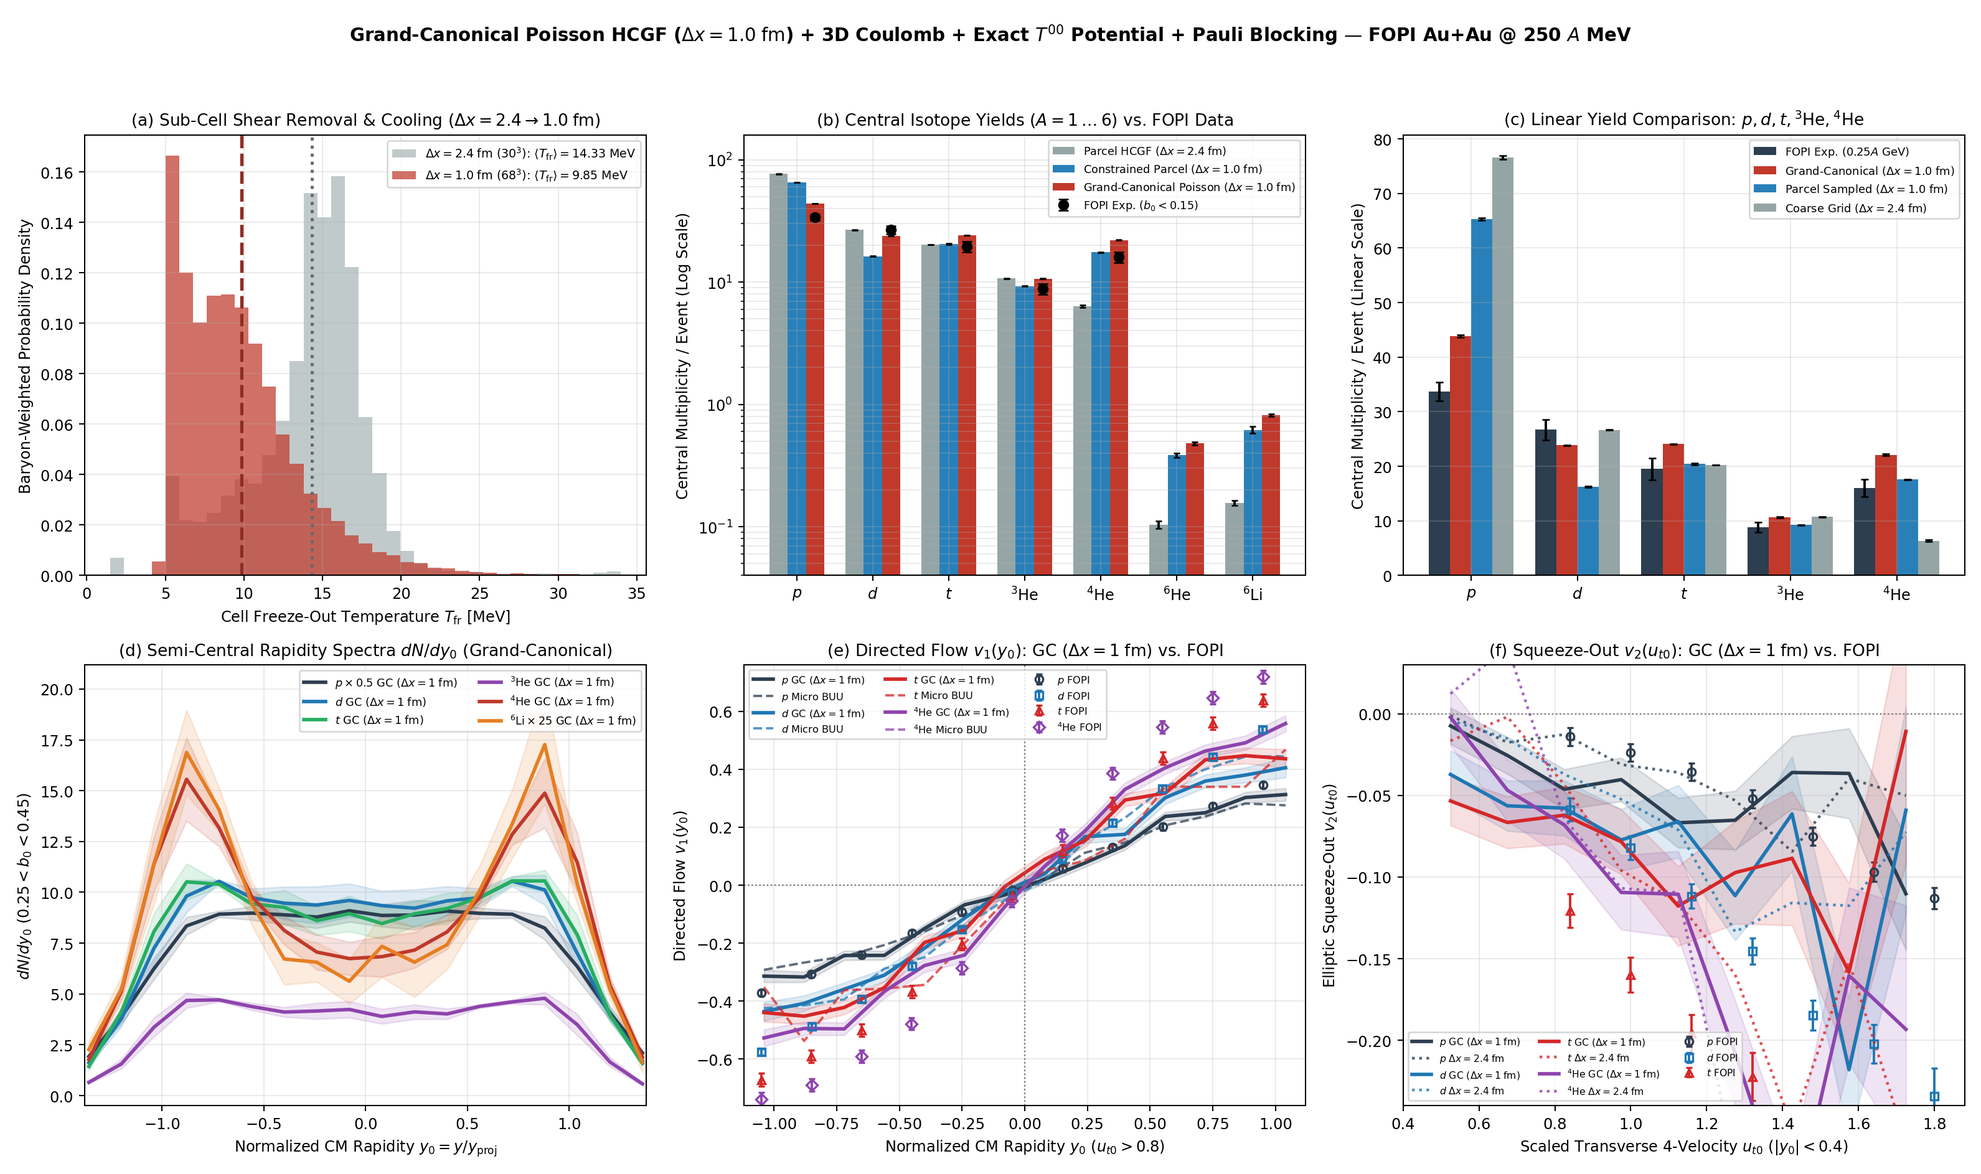
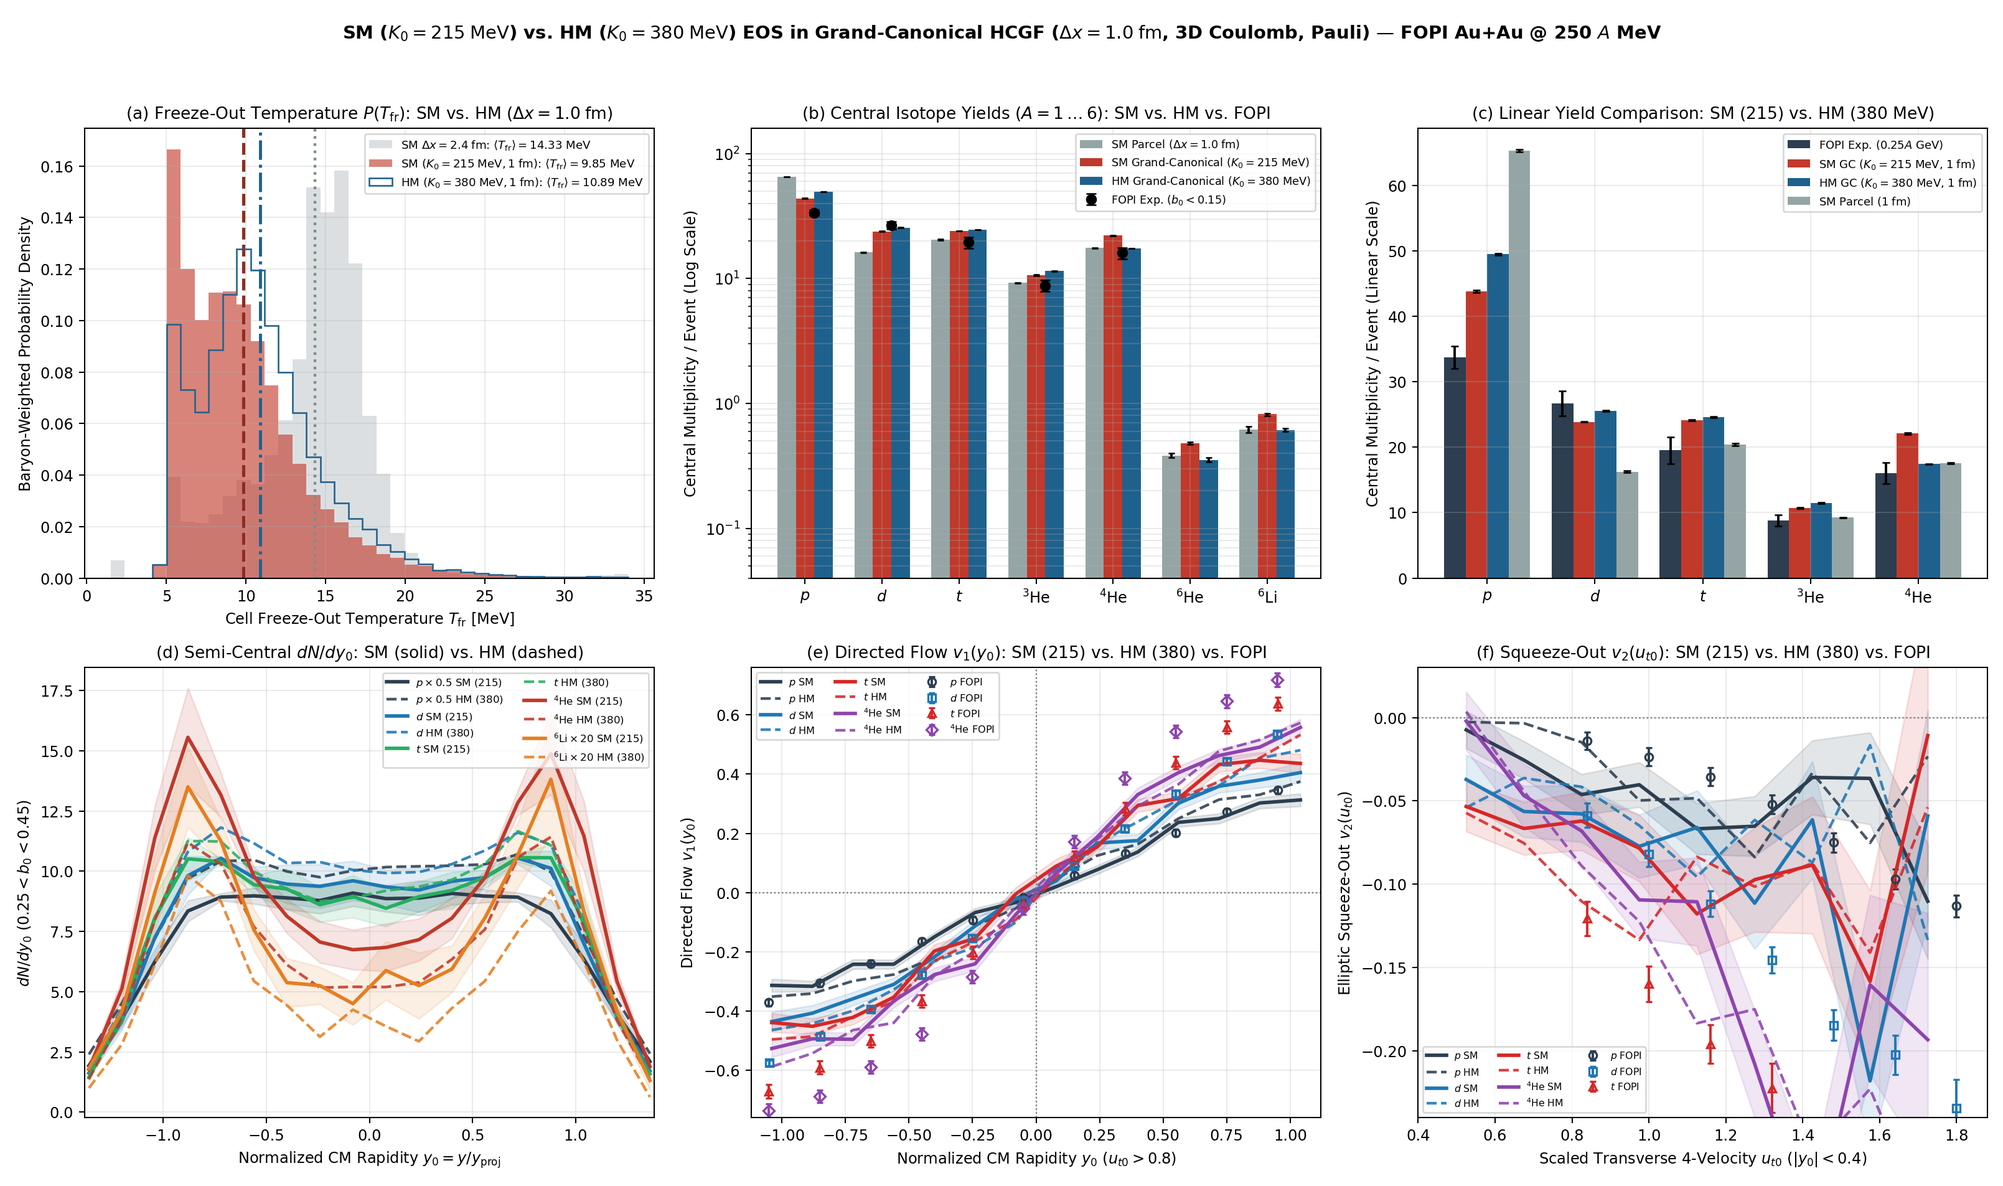
feat(eos): compare SM (K0=215 MeV) vs HM (K0=380 MeV) in dx=1.0 fm Grand-Canonical HCGF benchmark

diff --git a/scripts/run_gc_dx1fm_benchmark.py b/scripts/run_gc_dx1fm_benchmark.py
@@ -35,7 +35,7 @@ RHO0 = 0.160
 
 
 def run_job(job):
-    tag, b_fm, ntest, sampling_mode, save_cells, seed = job
+    tag, b_fm, ntest, eos_flag, sampling_mode, save_cells, seed = job
     fl_csv = RUNS_DIR / f"{tag}.csv"
     cells_csv = RUNS_DIR / f"{tag}.cells.csv"
     if (Path(str(fl_csv) + ".yields.csv")).exists() and (not save_cells or cells_csv.exists()):
@@ -46,7 +46,7 @@ def run_job(job):
         "--elab-amev", "250.0", "--impact-b", f"{b_fm:.4f}",
         "--ntest", str(ntest), "--box", "68.0", "--grid", "68",
         "--steps", "280", "--dt", "0.30", "--substeps", "2",
-        "--eos", "md-soft", "--in-medium-ec", "on", "--pauli", "on", "--coulomb", "on",
+        "--eos", eos_flag, "--in-medium-ec", "on", "--pauli", "on", "--coulomb", "on",
         "--cluster-mode", "freezeout", "--backflow", "remelt",
         "--sampling", sampling_mode, "--anisotropy", "on",
         "--max-cluster-A", "6", "--nfr", f"{RHO0 / 8.0:.5f}", "--freezeout-every", "2",
@@ -160,19 +160,19 @@ def load_T_hist(paths):
 def run_ensembles():
     RUNS_DIR.mkdir(parents=True, exist_ok=True)
     jobs = []
-    # Central (b0 < 0.15): 4 b*db points x N_test=500 = 2,000 events at dx = 1.00 fm (Grand-Canonical)
     b1_hi = 0.15 * B_MAX_AUAU
-    for k in range(4):
-        b_fm = math.sqrt(((k + 0.5) / 4.0) * (b1_hi * b1_hi))
-        jobs.append((f"c1_gc_dx1_{k:02d}", b_fm, 500, "gc", k < 2, 981000 + k * 151))
-
-    # Semi-central (0.25 < b0 < 0.45): 4 b*db points x N_test=500 = 2,000 events at dx = 1.00 fm (Grand-Canonical)
     b2_lo, b2_hi = 0.25 * B_MAX_AUAU, 0.45 * B_MAX_AUAU
-    for k in range(4):
-        b_fm = math.sqrt(b2_lo * b2_lo + ((k + 0.5) / 4.0) * (b2_hi * b2_hi - b2_lo * b2_lo))
-        jobs.append((f"c2_gc_dx1_{k:02d}", b_fm, 500, "gc", k < 2, 982000 + k * 151))
 
-    print(f"Running {len(jobs)} dx = 1.00 fm (68^3) Grand-Canonical jobs across 4 workers...", flush=True)
+    # SM (MD-Soft, K0=215 MeV, cached!) + HM (MD-Stiff, K0=380 MeV, paired seeds!) on dx = 1.00 fm (68^3)
+    for k in range(4):
+        b1 = math.sqrt(((k + 0.5) / 4.0) * (b1_hi * b1_hi))
+        b2 = math.sqrt(b2_lo * b2_lo + ((k + 0.5) / 4.0) * (b2_hi * b2_hi - b2_lo * b2_lo))
+        jobs.append((f"c1_gc_dx1_{k:02d}",    b1, 500, "md-soft",  "gc", k < 2, 981000 + k * 151))
+        jobs.append((f"c2_gc_dx1_{k:02d}",    b2, 500, "md-soft",  "gc", k < 2, 982000 + k * 151))
+        jobs.append((f"c1_gc_hm_dx1_{k:02d}", b1, 500, "md-stiff", "gc", k < 2, 981000 + k * 151))
+        jobs.append((f"c2_gc_hm_dx1_{k:02d}", b2, 500, "md-stiff", "gc", k < 2, 982000 + k * 151))
+
+    print(f"Running {len(jobs)} dx = 1.00 fm (68^3) SM vs HM Grand-Canonical jobs across 4 workers...", flush=True)
     t0 = time.time()
     out = {}
     done = 0
@@ -182,14 +182,18 @@ def run_ensembles():
             tag, dt_s, info, p = fut.result()
             out[tag] = p
             done += 1
-            print(f"  [{done:2d}/{len(jobs)}] {tag:14s} ({dt_s:5.1f}s) | {info}", flush=True)
+            if dt_s > 0.0:
+                print(f"  [{done:2d}/{len(jobs)}] {tag:17s} ({dt_s:5.1f}s) | {info}", flush=True)
 
-    c1_gc = OUT_DIR / "c1_gc_dx1.csv"
-    c2_gc = OUT_DIR / "c2_gc_dx1.csv"
-    merge_ensemble([out[f"c1_gc_dx1_{k:02d}"] for k in range(4)], c1_gc)
-    merge_ensemble([out[f"c2_gc_dx1_{k:02d}"] for k in range(4)], c2_gc)
+    c1_sm = OUT_DIR / "c1_gc_dx1.csv"
+    c2_sm = OUT_DIR / "c2_gc_dx1.csv"
+    c1_hm = OUT_DIR / "c1_gc_hm_dx1.csv"
+    c2_hm = OUT_DIR / "c2_gc_hm_dx1.csv"
+    merge_ensemble([out[f"c1_gc_dx1_{k:02d}"]    for k in range(4)], c1_sm)
+    merge_ensemble([out[f"c2_gc_dx1_{k:02d}"]    for k in range(4)], c2_sm)
+    merge_ensemble([out[f"c1_gc_hm_dx1_{k:02d}"] for k in range(4)], c1_hm)
+    merge_ensemble([out[f"c2_gc_hm_dx1_{k:02d}"] for k in range(4)], c2_hm)
 
-    # Merge existing cached dx=1.0 fm Parcel & dx=2.4 fm Coulomb central ensembles
     c1_par = OUT_DIR / "c1_parcel_dx1.csv"
     merge_ensemble(sorted(Path(p) for p in glob.glob(str(ROOT / "output/highstat_dx1fm_v2/c1_dx1_0*.csv"))
                           if not p.endswith(".ut0.csv") and not p.endswith(".yields.csv") and not p.endswith(".cells.csv")), c1_par)
@@ -197,71 +201,74 @@ def run_ensembles():
     merge_ensemble(sorted(Path(p) for p in glob.glob(str(ROOT / "output/highstat_coulomb_c1/c1_coul_0*.csv"))
                           if not p.endswith(".ut0.csv") and not p.endswith(".yields.csv") and not p.endswith(".cells.csv")), c1_dx24)
 
-    print(f"Completed & merged all ensembles in {time.time() - t0:.1f}s!", flush=True)
+    print(f"Completed & merged SM + HM ensembles in {time.time() - t0:.1f}s!", flush=True)
     return {
-        "c1_gc": c1_gc,
-        "c2_gc": c2_gc,
-        "c1_parcel": c1_par,
-        "c1_dx24": c1_dx24,
-        "c2_dx24": ROOT / "output" / "highstat_pauli_hcgf" / "c2_p_pt.csv",
-        "c2_mic": ROOT / "output" / "highstat_pauli_hcgf" / "c2_p_mic.csv",
+        "c1_sm": c1_sm, "c2_sm": c2_sm,
+        "c1_hm": c1_hm, "c2_hm": c2_hm,
+        "c1_parcel": c1_par, "c1_dx24": c1_dx24,
     }
 
 
 def plot_benchmark(merged, fopi):
     plt.rcParams.update({
         "font.size": 9.4, "axes.titlesize": 10.3, "axes.labelsize": 9.4,
-        "legend.fontsize": 7.3, "figure.facecolor": "white"
+        "legend.fontsize": 7.2, "figure.facecolor": "white"
     })
-    fig, axes = plt.subplots(2, 3, figsize=(17.2, 10.2), dpi=185)
+    fig, axes = plt.subplots(2, 3, figsize=(17.4, 10.3), dpi=185)
     fig.suptitle(
-        "Grand-Canonical Poisson HCGF ($\\Delta x = 1.0\\;\\mathrm{fm}$) + 3D Coulomb + Exact $T^{00}$ Potential + Pauli Blocking — FOPI Au+Au @ 250 $A$ MeV",
-        fontsize=11.4, fontweight="bold", y=0.98
+        "SM ($K_0 = 215\\;\\mathrm{MeV}$) vs. HM ($K_0 = 380\\;\\mathrm{MeV}$) EOS in Grand-Canonical HCGF ($\\Delta x = 1.0\\;\\mathrm{fm}$, 3D Coulomb, Pauli) — FOPI Au+Au @ 250 $A$ MeV",
+        fontsize=11.3, fontweight="bold", y=0.98
     )
 
-    # (a) Freeze-out cell temperature distribution: dx = 2.4 fm vs dx = 1.0 fm
+    # (a) Freeze-out cell temperature distribution: SM (dx=1 fm) vs HM (dx=1 fm) vs Coarse (dx=2.4 fm)
     ax = axes[0, 0]
     T_24, w_24 = load_T_hist([ROOT / "output/highstat_coulomb_c1/c1_coul_00.cells.csv"])
-    T_10, w_10 = load_T_hist([RUNS_DIR / f"c1_gc_dx1_{k:02d}.cells.csv" for k in range(2)])
+    T_sm, w_sm = load_T_hist([RUNS_DIR / f"c1_gc_dx1_{k:02d}.cells.csv" for k in range(2)])
+    T_hm, w_hm = load_T_hist([RUNS_DIR / f"c1_gc_hm_dx1_{k:02d}.cells.csv" for k in range(2)])
     bins = np.linspace(1.5, 34.0, 38)
     if len(T_24) > 0:
         m24 = np.average(T_24, weights=w_24)
-        ax.hist(T_24, bins=bins, weights=w_24, density=True, color="#95a5a6", alpha=0.58,
-                label=f"$\\Delta x = 2.4\\;\\mathrm{{fm}}$ ($30^3$): $\\langle T_{{\\mathrm{{fr}}}}\\rangle = {m24:.2f}$ MeV")
-        ax.axvline(m24, color="#616a6b", ls=":", lw=1.9)
-    if len(T_10) > 0:
-        m10 = np.average(T_10, weights=w_10)
-        ax.hist(T_10, bins=bins, weights=w_10, density=True, color="#c0392b", alpha=0.72,
-                label=f"$\\Delta x = 1.0\\;\\mathrm{{fm}}$ ($68^3$): $\\langle T_{{\\mathrm{{fr}}}}\\rangle = {m10:.2f}$ MeV")
-        ax.axvline(m10, color="#922b21", ls="--", lw=2.1)
+        ax.hist(T_24, bins=bins, weights=w_24, density=True, color="#bdc3c7", alpha=0.52,
+                label=f"SM $\\Delta x=2.4\\;\\mathrm{{fm}}$: $\\langle T_{{\\mathrm{{fr}}}}\\rangle = {m24:.2f}$ MeV")
+        ax.axvline(m24, color="#7f8c8d", ls=":", lw=1.7)
+    if len(T_sm) > 0:
+        msm = np.average(T_sm, weights=w_sm)
+        ax.hist(T_sm, bins=bins, weights=w_sm, density=True, color="#c0392b", alpha=0.62,
+                label=f"SM ($K_0=215\\;\\mathrm{{MeV}}, 1\\;\\mathrm{{fm}}$): $\\langle T_{{\\mathrm{{fr}}}}\\rangle = {msm:.2f}$ MeV")
+        ax.axvline(msm, color="#922b21", ls="--", lw=2.0)
+    if len(T_hm) > 0:
+        mhm = np.average(T_hm, weights=w_hm)
+        ax.hist(T_hm, bins=bins, weights=w_hm, density=True, histtype="step", color="#1f618d", lw=2.2,
+                label=f"HM ($K_0=380\\;\\mathrm{{MeV}}, 1\\;\\mathrm{{fm}}$): $\\langle T_{{\\mathrm{{fr}}}}\\rangle = {mhm:.2f}$ MeV")
+        ax.axvline(mhm, color="#1f618d", ls="-.", lw=1.9)
     ax.set_xlabel("Cell Freeze-Out Temperature $T_{\\mathrm{fr}}$ [MeV]")
     ax.set_ylabel("Baryon-Weighted Probability Density")
-    ax.set_title("(a) Sub-Cell Shear Removal & Cooling ($\\Delta x = 2.4 \\to 1.0\\;\\mathrm{fm}$)")
-    ax.grid(alpha=0.25); ax.legend(loc="upper right", fontsize=7.4)
+    ax.set_title("(a) Freeze-Out Temperature $P(T_{\\mathrm{fr}})$: SM vs. HM ($\\Delta x = 1.0\\;\\mathrm{fm}$)")
+    ax.grid(alpha=0.25); ax.legend(loc="upper right", fontsize=7.1)
 
-    # (b) Central (b0 < 0.15) log-scale multiplicities across A = 1..6
+    # (b) Central (b0 < 0.15) log-scale multiplicities across A = 1..6: SM vs HM vs Parcel vs FOPI
     ax = axes[0, 1]
     sps = ["p", "d", "t", "3He", "4He", "6He", "6Li"]
     lbls = ["$p$", "$d$", "$t$", "$^3\\mathrm{He}$", "$^4\\mathrm{He}$", "$^6\\mathrm{He}$", "$^6\\mathrm{Li}$"]
     xp = np.arange(len(sps)); w = 0.24
-    y_24 = load_yields(merged["c1_dx24"])
     y_pa = load_yields(merged["c1_parcel"])
-    y_gc = load_yields(merged["c1_gc"])
-    ax.bar(xp - w, [y_24[s][0] for s in sps], yerr=[y_24[s][1] for s in sps], width=w,
-           color="#95a5a6", capsize=2, label="Parcel HCGF ($\\Delta x = 2.4\\;\\mathrm{fm}$)")
-    ax.bar(xp,     [y_pa[s][0] for s in sps], yerr=[y_pa[s][1] for s in sps], width=w,
-           color="#2980b9", capsize=2, label="Constrained Parcel ($\\Delta x = 1.0\\;\\mathrm{fm}$)")
-    ax.bar(xp + w, [y_gc[s][0] for s in sps], yerr=[y_gc[s][1] for s in sps], width=w,
-           color="#c0392b", capsize=2, label="Grand-Canonical Poisson ($\\Delta x = 1.0\\;\\mathrm{fm}$)")
+    y_sm = load_yields(merged["c1_sm"])
+    y_hm = load_yields(merged["c1_hm"])
+    ax.bar(xp - w, [y_pa[s][0] for s in sps], yerr=[y_pa[s][1] for s in sps], width=w,
+           color="#95a5a6", capsize=2, label="SM Parcel ($\\Delta x = 1.0\\;\\mathrm{fm}$)")
+    ax.bar(xp,     [y_sm[s][0] for s in sps], yerr=[y_sm[s][1] for s in sps], width=w,
+           color="#c0392b", capsize=2, label="SM Grand-Canonical ($K_0 = 215$ MeV)")
+    ax.bar(xp + w, [y_hm[s][0] for s in sps], yerr=[y_hm[s][1] for s in sps], width=w,
+           color="#1f618d", capsize=2, label="HM Grand-Canonical ($K_0 = 380$ MeV)")
     f_sps = ["p", "d", "t", "3He", "4He"]
-    ax.errorbar(np.arange(5) + w, [fopi["central_yields_b0_lt_015"][s]["val"] for s in f_sps],
+    ax.errorbar(np.arange(5) + 0.5 * w, [fopi["central_yields_b0_lt_015"][s]["val"] for s in f_sps],
                 yerr=[fopi["central_yields_b0_lt_015"][s]["err"] for s in f_sps],
                 fmt="ko", ms=5.8, capsize=3, lw=1.6, zorder=8, label="FOPI Exp. ($b_0 < 0.15$)")
     ax.set_yscale("log"); ax.set_ylim(4e-2, 160.0)
     ax.set_xticks(xp); ax.set_xticklabels(lbls)
     ax.set_ylabel("Central Multiplicity / Event (Log Scale)")
     ax.grid(alpha=0.25, which="both"); ax.legend(loc="upper right", fontsize=6.9)
-    ax.set_title("(b) Central Isotope Yields ($A = 1 \\dots 6$) vs. FOPI Data")
+    ax.set_title("(b) Central Isotope Yields ($A = 1 \\dots 6$): SM vs. HM vs. FOPI")
 
     # (c) Linear-scale comparison on FOPI light charged species (p, d, t, 3He, 4He)
     ax = axes[0, 2]
@@ -269,45 +276,46 @@ def plot_benchmark(merged, fopi):
     f_vals = [fopi["central_yields_b0_lt_015"][s]["val"] for s in f_sps]
     f_errs = [fopi["central_yields_b0_lt_015"][s]["err"] for s in f_sps]
     ax.bar(xp5 - 1.5 * w5, f_vals, yerr=f_errs, width=w5, color="#2c3e50", capsize=2.5, label="FOPI Exp. ($0.25A$ GeV)")
-    ax.bar(xp5 - 0.5 * w5, [y_gc[s][0] for s in f_sps], yerr=[y_gc[s][1] for s in f_sps], width=w5,
-           color="#c0392b", capsize=2.5, label="Grand-Canonical ($\\Delta x = 1.0\\;\\mathrm{fm}$)")
-    ax.bar(xp5 + 0.5 * w5, [y_pa[s][0] for s in f_sps], yerr=[y_pa[s][1] for s in f_sps], width=w5,
-           color="#2980b9", capsize=2.5, label="Parcel Sampled ($\\Delta x = 1.0\\;\\mathrm{fm}$)")
-    ax.bar(xp5 + 1.5 * w5, [y_24[s][0] for s in f_sps], yerr=[y_24[s][1] for s in f_sps], width=w5,
-           color="#95a5a6", capsize=2.5, label="Coarse Grid ($\\Delta x = 2.4\\;\\mathrm{fm}$)")
+    ax.bar(xp5 - 0.5 * w5, [y_sm[s][0] for s in f_sps], yerr=[y_sm[s][1] for s in f_sps], width=w5,
+           color="#c0392b", capsize=2.5, label="SM GC ($K_0 = 215$ MeV, $1\\;\\mathrm{fm}$)")
+    ax.bar(xp5 + 0.5 * w5, [y_hm[s][0] for s in f_sps], yerr=[y_hm[s][1] for s in f_sps], width=w5,
+           color="#1f618d", capsize=2.5, label="HM GC ($K_0 = 380$ MeV, $1\\;\\mathrm{fm}$)")
+    ax.bar(xp5 + 1.5 * w5, [y_pa[s][0] for s in f_sps], yerr=[y_pa[s][1] for s in f_sps], width=w5,
+           color="#95a5a6", capsize=2.5, label="SM Parcel ($1\\;\\mathrm{fm}$)")
     ax.set_xticks(xp5); ax.set_xticklabels(lbls[:5])
     ax.set_ylabel("Central Multiplicity / Event (Linear Scale)")
     ax.grid(alpha=0.25); ax.legend(loc="upper right", fontsize=7.0)
-    ax.set_title("(c) Linear Yield Comparison: $p, d, t, ^3\\mathrm{He}, ^4\\mathrm{He}$")
+    ax.set_title("(c) Linear Yield Comparison: SM ($215$) vs. HM ($380$ MeV)")
 
-    # (d) Semicentral (0.25 < b0 < 0.45) Rapidity Spectra dN/dy0 for Grand-Canonical dx = 1.0 fm
+    # (d) Semicentral (0.25 < b0 < 0.45) Rapidity Spectra dN/dy0: SM (solid) vs HM (dashed)
     ax = axes[1, 0]
     for sp, col, mult, lbl in [("p", "#2c3e50", 0.5, "$p \\times 0.5$"),
                                ("d", "#1f77b4", 1.0, "$d$"),
                                ("t", "#27ae60", 1.0, "$t$"),
-                               ("3He", "#8e44ad", 1.0, "$^3\\mathrm{He}$"),
                                ("4He", "#c0392b", 1.0, "$^4\\mathrm{He}$"),
-                               ("6Li", "#e67e22", 25.0, "$^6\\mathrm{Li}\\times 25$")]:
-        yg, dg, eg, _, _, _ = load_rap(merged["c2_gc"], sp)
-        ax.plot(yg, dg * mult, "-", color=col, lw=2.2, label=f"{lbl} GC ($\\Delta x=1\\;\\mathrm{{fm}}$)")
-        ax.fill_between(yg, (dg - eg) * mult, (dg + eg) * mult, color=col, alpha=0.14)
+                               ("6Li", "#e67e22", 20.0, "$^6\\mathrm{Li}\\times 20$")]:
+        ys, ds, es, _, _, _ = load_rap(merged["c2_sm"], sp)
+        yh, dh, _,  _, _, _ = load_rap(merged["c2_hm"], sp)
+        ax.plot(ys, ds * mult, "-",  color=col, lw=2.2, label=f"{lbl} SM ($215$)")
+        ax.fill_between(ys, (ds - es) * mult, (ds + es) * mult, color=col, alpha=0.13)
+        ax.plot(yh, dh * mult, "--", color=col, lw=1.7, alpha=0.88, label=f"{lbl} HM ($380$)")
     ax.set_xlim(-1.38, 1.38)
     ax.set_xlabel("Normalized CM Rapidity $y_0 = y / y_{\\mathrm{proj}}$")
     ax.set_ylabel("$dN / dy_0$ ($0.25 < b_0 < 0.45$)")
-    ax.grid(alpha=0.25); ax.legend(loc="upper right", ncol=2, fontsize=6.9)
-    ax.set_title("(d) Semi-Central Rapidity Spectra $dN/dy_0$ (Grand-Canonical)")
+    ax.grid(alpha=0.25); ax.legend(loc="upper right", ncol=2, fontsize=6.5)
+    ax.set_title("(d) Semi-Central $dN/dy_0$: SM (solid) vs. HM (dashed)")
 
-    # (e) Directed Flow v1(y0) (u_t0 > 0.8) vs FOPI Data
+    # (e) Directed Flow v1(y0) (u_t0 > 0.8): SM (solid) vs HM (dashed) vs FOPI Data
     ax = axes[1, 1]
     for sp, col, mk, lbl in [("p", "#2c3e50", "o", "$p$"), ("d", "#1f77b4", "s", "$d$"),
                              ("t", "#d62728", "^", "$t$"), ("4He", "#8e44ad", "D", "$^4\\mathrm{He}$")]:
-        yg, _, _, v1g, e1g, ng8 = load_rap(merged["c2_gc"], sp)
-        ym, _, _, v1m, _,   nm8 = load_rap(merged["c2_mic"], sp)
-        sg = (np.abs(yg) <= 1.08) & (ng8 >= 12)
-        sm = (np.abs(ym) <= 1.08) & (nm8 >= 15)
-        ax.plot(yg[sg], v1g[sg], "-",  color=col, lw=2.2, label=f"{lbl} GC ($\\Delta x=1\\;\\mathrm{{fm}}$)")
-        ax.fill_between(yg[sg], v1g[sg] - e1g[sg], v1g[sg] + e1g[sg], color=col, alpha=0.14)
-        ax.plot(ym[sm], v1m[sm], "--", color=col, lw=1.5, alpha=0.75, label=f"{lbl} Micro BUU")
+        ys, _, _, v1s, e1s, ns8 = load_rap(merged["c2_sm"], sp)
+        yh, _, _, v1h, _,   nh8 = load_rap(merged["c2_hm"], sp)
+        ss = (np.abs(ys) <= 1.08) & (ns8 >= 12)
+        sh = (np.abs(yh) <= 1.08) & (nh8 >= 12)
+        ax.plot(ys[ss], v1s[ss], "-",  color=col, lw=2.2, label=f"{lbl} SM")
+        ax.fill_between(ys[ss], v1s[ss] - e1s[ss], v1s[ss] + e1s[ss], color=col, alpha=0.13)
+        ax.plot(yh[sh], v1h[sh], "--", color=col, lw=1.7, alpha=0.88, label=f"{lbl} HM")
         if sp in fopi["v1_y0_ut0_gt_08"]:
             ep = fopi["v1_y0_ut0_gt_08"][sp]
             ax.errorbar([p["y0"] for p in ep[::2]], [p["v1"] for p in ep[::2]],
@@ -318,21 +326,21 @@ def plot_benchmark(merged, fopi):
     ax.set_xlabel("Normalized CM Rapidity $y_0$ ($u_{t0} > 0.8$)")
     ax.set_ylabel("Directed Flow $v_1(y_0)$")
     ax.grid(alpha=0.25); ax.legend(loc="upper left", ncol=3, fontsize=6.3)
-    ax.set_title("(e) Directed Flow $v_1(y_0)$: GC ($\\Delta x = 1\\;\\mathrm{fm}$) vs. FOPI")
+    ax.set_title("(e) Directed Flow $v_1(y_0)$: SM ($215$) vs. HM ($380$) vs. FOPI")
 
-    # (f) Elliptic Squeeze-Out v2(u_t0) (|y0| < 0.4) vs FOPI Data
+    # (f) Elliptic Squeeze-Out v2(u_t0) (|y0| < 0.4): SM (solid) vs HM (dashed) vs FOPI Data
     ax = axes[1, 2]
     for sp, ekey, col, mk, lbl in [("p", "p", "#2c3e50", "o", "$p$"),
                                    ("d", "d", "#1f77b4", "s", "$d$"),
                                    ("t", "t", "#d62728", "^", "$t$"),
                                    ("4He", "4He", "#8e44ad", "D", "$^4\\mathrm{He}$")]:
-        ug, v2g, e2g, ng_u = load_ut0(merged["c2_gc"], sp)
-        u2, v22, _,   n2_u = load_ut0(merged["c2_dx24"], sp)
-        sg = (ug >= 0.45) & (ug <= 1.85) & (ng_u >= 25)
-        s2 = (u2 >= 0.45) & (u2 <= 1.85) & (n2_u >= 35)
-        ax.plot(ug[sg], v2g[sg], "-",  color=col, lw=2.2, label=f"{lbl} GC ($\\Delta x=1\\;\\mathrm{{fm}}$)")
-        ax.fill_between(ug[sg], v2g[sg] - e2g[sg], v2g[sg] + e2g[sg], color=col, alpha=0.14)
-        ax.plot(u2[s2], v22[s2], ":",  color=col, lw=1.7, alpha=0.80, label=f"{lbl} $\\Delta x=2.4\\;\\mathrm{{fm}}$")
+        us, v2s, e2s, ns_u = load_ut0(merged["c2_sm"], sp)
+        uh, v2h, _,   nh_u = load_ut0(merged["c2_hm"], sp)
+        ss = (us >= 0.45) & (us <= 1.85) & (ns_u >= 25)
+        sh = (uh >= 0.45) & (uh <= 1.85) & (nh_u >= 25)
+        ax.plot(us[ss], v2s[ss], "-",  color=col, lw=2.2, label=f"{lbl} SM")
+        ax.fill_between(us[ss], v2s[ss] - e2s[ss], v2s[ss] + e2s[ss], color=col, alpha=0.13)
+        ax.plot(uh[sh], v2h[sh], "--", color=col, lw=1.7, alpha=0.88, label=f"{lbl} HM")
         if ekey in fopi["v2_ut0_y0_lt_04"]:
             eu = fopi["v2_ut0_y0_lt_04"][ekey]
             ax.errorbar([p["ut0"] for p in eu[::2]], [p["v2"] for p in eu[::2]],
@@ -343,7 +351,7 @@ def plot_benchmark(merged, fopi):
     ax.set_xlabel("Scaled Transverse 4-Velocity $u_{t0}$ ($|y_0| < 0.4$)")
     ax.set_ylabel("Elliptic Squeeze-Out $v_2(u_{t0})$")
     ax.grid(alpha=0.25); ax.legend(loc="lower left", ncol=3, fontsize=6.1)
-    ax.set_title("(f) Squeeze-Out $v_2(u_{t0})$: GC ($\\Delta x = 1\\;\\mathrm{fm}$) vs. FOPI")
+    ax.set_title("(f) Squeeze-Out $v_2(u_{t0})$: SM ($215$) vs. HM ($380$) vs. FOPI")
 
     fig.tight_layout(rect=[0, 0, 1, 0.955])
     fig.savefig(PNG_OUT, dpi=185)
@@ -355,9 +363,10 @@ def main():
     fopi = json.load(open(FOPI_JSON))
     merged = run_ensembles()
     plot_benchmark(merged, fopi)
-    for nm, p in [("Grand-Canonical (dx=1.0 fm)", merged["c1_gc"]),
-                  ("Parcel Sampled  (dx=1.0 fm)", merged["c1_parcel"]),
-                  ("Coarse Grid     (dx=2.4 fm)", merged["c1_dx24"])]:
+    for nm, p in [("SM Grand-Canonical (K0=215, 1fm)", merged["c1_sm"]),
+                  ("HM Grand-Canonical (K0=380, 1fm)", merged["c1_hm"]),
+                  ("SM Parcel Sampled  (K0=215, 1fm)", merged["c1_parcel"]),
+                  ("SM Coarse Grid    (K0=215,2.4fm)", merged["c1_dx24"])]:
         yd = load_yields(p)
         print(f"  {nm}: p={yd['p'][0]:6.2f}+-{yd['p'][1]:4.2f} | n={yd['n'][0]:6.2f} | "
               f"d={yd['d'][0]:5.2f}+-{yd['d'][1]:4.2f} | t={yd['t'][0]:5.2f}+-{yd['t'][1]:4.2f} | "
